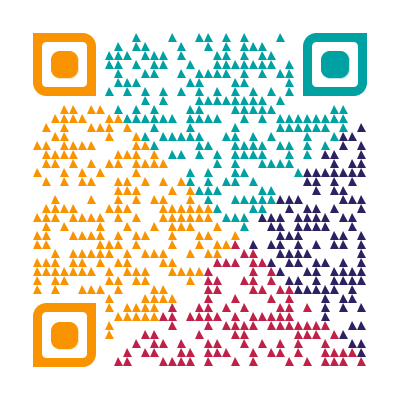
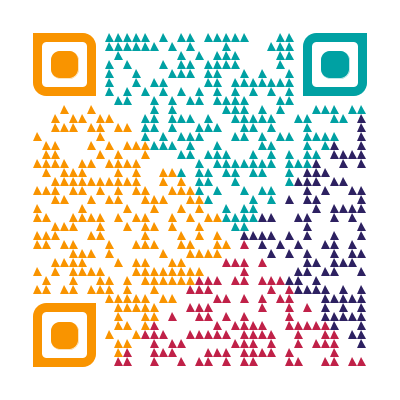
修改了收款地址

Changed region(s): [[0.24, 0.06, 0.93, 0.93], [0.09, 0.27, 0.21, 0.75], [0.51, 0.63, 0.57, 0.69]]

diff --git a/Resume.html b/Resume.html
@@ -32,7 +32,7 @@
         <div id="anchor1" class="doc-box box1">
             <p class="doc-title">功能介绍</p>
             <p class="doc">
-                代跑助手完成已经有三四个月了，一直可以正常产币，从来没有被判BOT！之所以没有第一时间对外发布，主要考虑对游戏生态的影响。
+                代跑助手完成已经有五六个月了，一直可以正常产币，从来没有被判BOT！之所以没有第一时间对外发布，主要考虑对游戏生态的影响。
                 项目发展到今天，身边很多朋友为了填补STEPN官方骚操作带来的经济损失，由于长期过度运动，形成膝盖积液，脚踝韧带受损。同样也到了
                 降温降雨的恶劣天气高发季节，考虑到有太多家人由于亏损太多，还在努力坚持
                 每一天回一点本。为了家人的健康和出行安全，同时能够按照预计的回本计划弥补损失，现如今把代跑助手对某一部分刚需人群开放授权使用，
@@ -76,13 +76,13 @@
                 彩色二维码，获取收款钱包地址，
                 支付对应的金额，即代表订购的使用周期，订购金额是可能会调整的，每次支付
                 之前请实时获取，请勿打错金额，系统机器人只支持上方价格的解析，其他金额会导致订购失败，钱也无法退回。
-                由于solana 价格大跌，我们改为U本位收款，收款地址没变，改成30U 一个月，望大家知晓。
-                目前只支持sol的转账收款，暂不提供其他币种的付款。 
+                由于solana 价格大跌，我们改为U本位收款，收款地址已经调整为bsc链的小狐狸收款地址，改成30U 一个月，望大家知晓。
+                目前只支持bsc链的usdt，usdc转账收款，暂不提供其他币种的付款。 
             </p>
-            <p class="doc">sol钱包收款地址：6A6aCgzMVviEUKyytFUVyFjv5XRLM9GiewXL1Z1E9Ukj
+            <p class="doc">bsc链钱包收款地址：0x7B019C969f17cc626f1B539A1F40bA583bca5d09
             </p>
             <img class="img" alt="图片无法加载" title="收款钱包二维码" src="./images/收款二维码.png">
-            <a class="link">上方为sol收款二维码<a></a>
+            <a class="link">上方为bsc链的小狐狸钱包收款二维码<a></a>
         </div>
 
         <!-- 下载安装 -->
